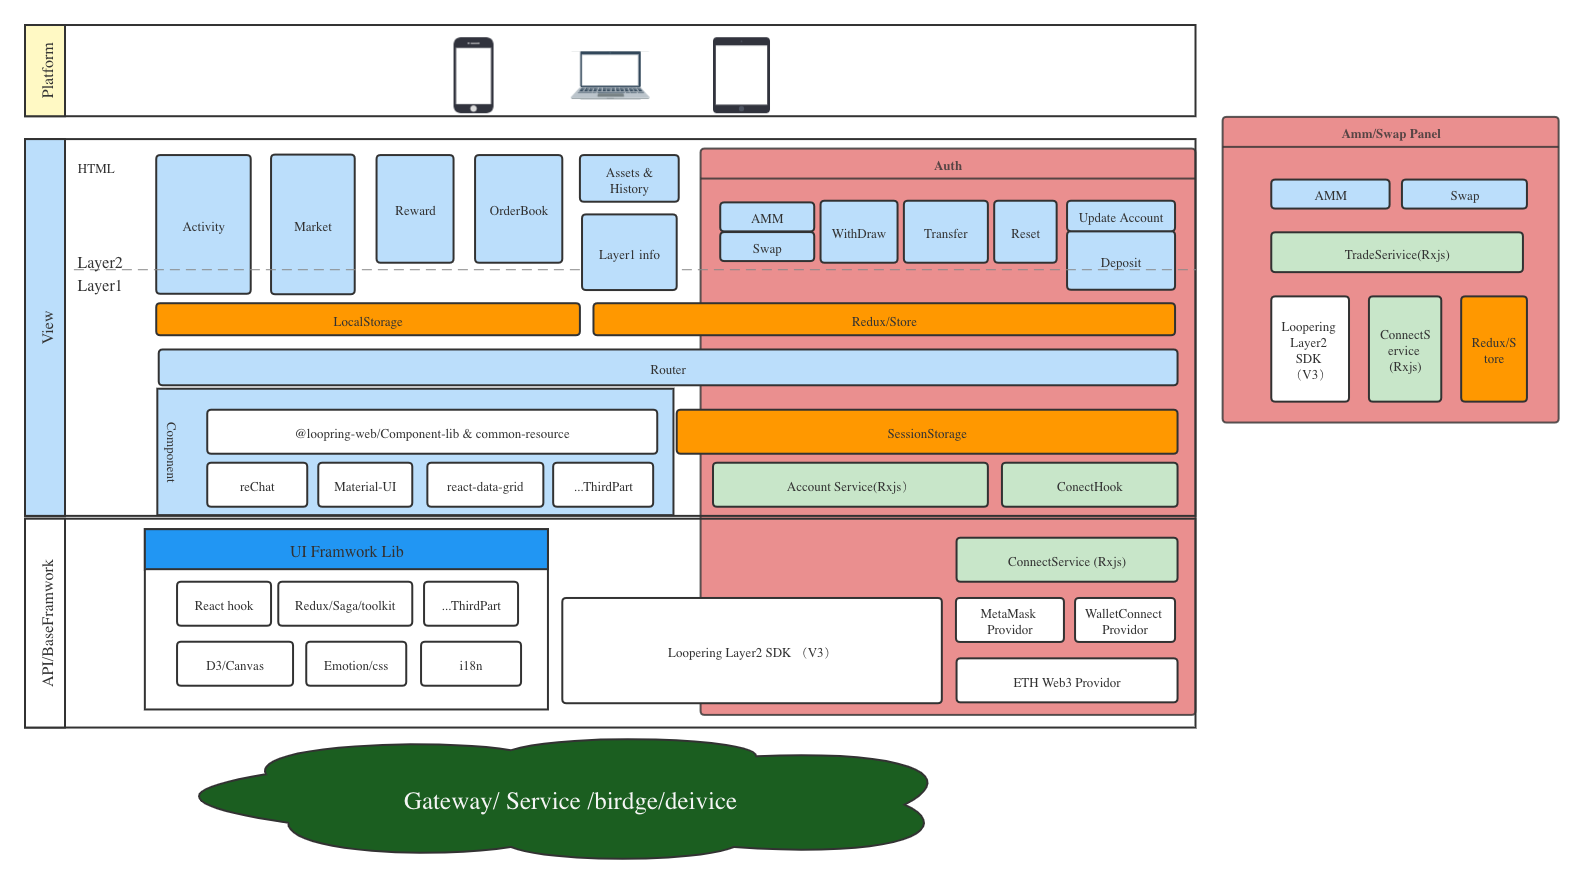
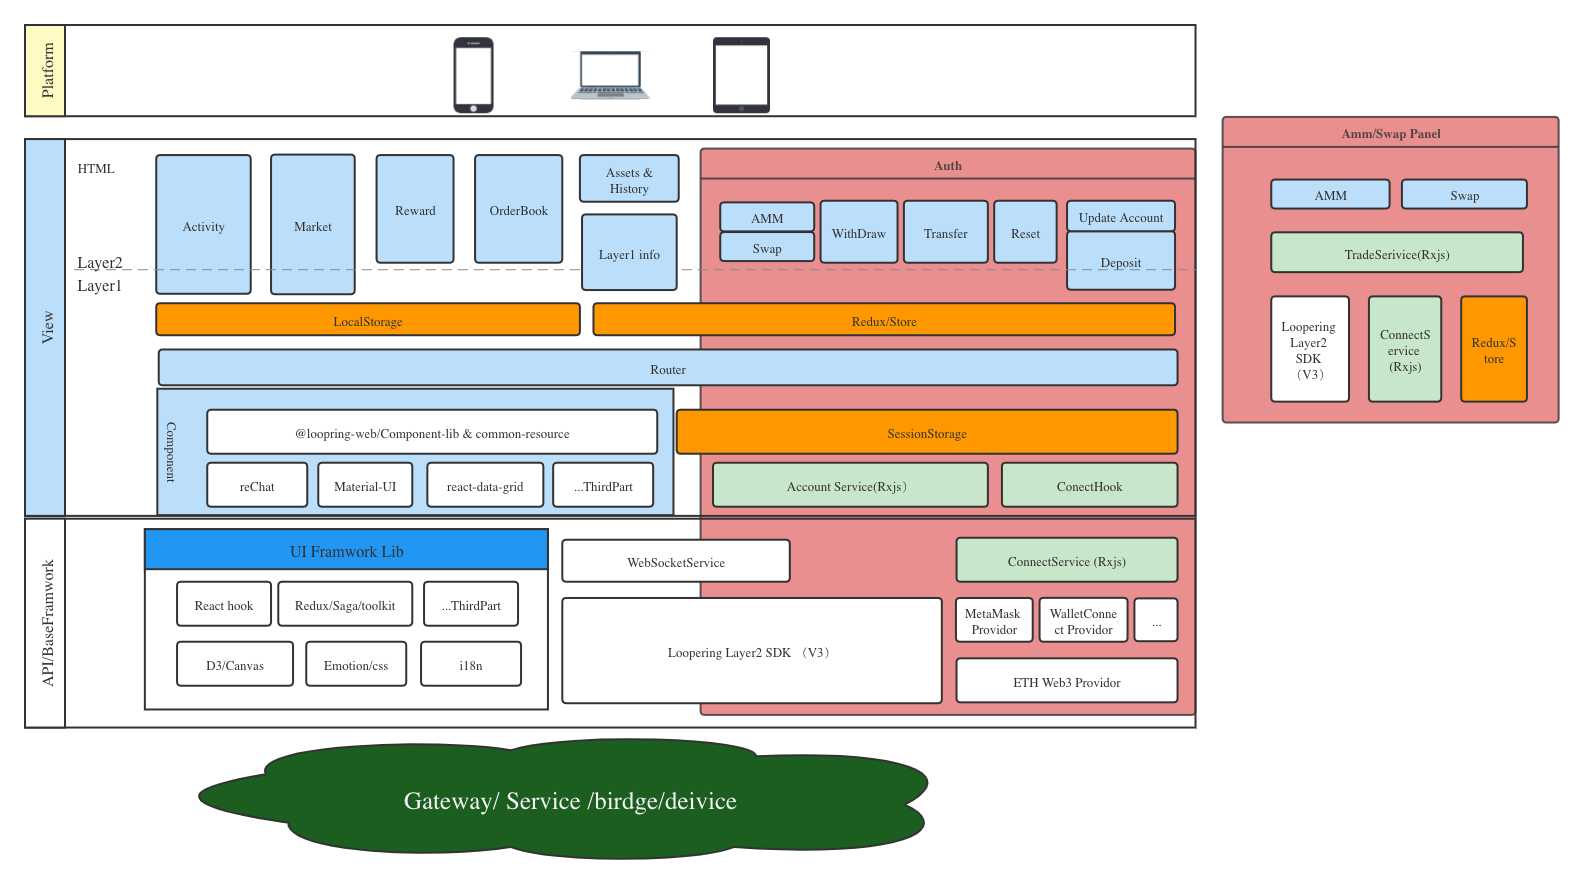
update code

Changed region(s): [[0.6191, 0.6719, 0.7429, 0.733], [0.3714, 0.6109, 0.5262, 0.6719]]

diff --git a/packages/webapp/src/pages/SwapPage/hook.ts b/packages/webapp/src/pages/SwapPage/hook.ts
@@ -33,9 +33,9 @@ import { deepClone } from 'utils/obj_tools';
 import { myError, myLog } from 'utils/log_tools';
 import { useTranslation } from 'react-i18next';
 import { usePairMatch } from 'hooks/common/usePairMatch';
-import { useWalletHook } from 'services/wallet/useWalletHook';
+import { useWalletLayer2Socket } from 'services/socket/';
 import { useSocket } from 'stores/socket';
-import { walletLayer2Service } from 'services/wallet/walletLayer2Service';
+import { walletLayer2Service } from 'services/socket/services/walletLayer2Service';
 import { getTimestampDaysLater } from 'utils/dt_tools';
 import { DAYS, REFRESH_RATE, TOAST_TIME } from 'defs/common_defs';
 
@@ -490,7 +490,7 @@ export const useSwapPage = <C extends { [ key: string ]: any }>() => {
 
     }, [tradeData, tradeCalcData, marketArray, ammMap, account.readyState])
 
-    useWalletHook({walletLayer2Callback})
+    useWalletLayer2Socket({walletLayer2Callback})
 
     // myLog('tradeData?.sell.belong:', tradeData?.sell.belong)
     // myLog('tradeData?.buy.belong:', tradeData?.buy.belong)

diff --git a/packages/webapp/src/pages/LiquidityPage/AmmPanel/hooks.ts b/packages/webapp/src/pages/LiquidityPage/AmmPanel/hooks.ts
@@ -41,9 +41,9 @@ import { LoopringAPI } from "api_wrapper";
 import { deepClone } from '../../../utils/obj_tools';
 import { myLog } from "utils/log_tools";
 import { useTranslation } from "react-i18next";
-import { useWalletHook } from '../../../services/wallet/useWalletHook';
+import { useWalletLayer2Socket } from '../../../services/socket/';
 import { useSocket } from '../../../stores/socket';
-import { walletLayer2Service } from '../../../services/wallet/walletLayer2Service';
+import { walletLayer2Service } from '../../../services/socket/services/walletLayer2Service';
 import * as _ from 'lodash'
 import { useToast } from "hooks/common/useToast";
 export const useAmmPanel = <C extends { [key: string]: any }>({
@@ -682,7 +682,7 @@ export const useAmmPanel = <C extends { [key: string]: any }>({
 
     },[ pair, snapShotData])
 
-    useWalletHook({walletLayer2Callback})
+    useWalletLayer2Socket({walletLayer2Callback})
     React.useEffect(()=>{
         walletLayer2Callback()
         // if(walletLayer2Status === SagaStatus.UNSET){

diff --git a/packages/webapp/src/pages/Layer2Page/MyLiquidityPanel/hook.ts b/packages/webapp/src/pages/Layer2Page/MyLiquidityPanel/hook.ts
@@ -17,7 +17,7 @@ import { useWalletLayer2 } from '../../../stores/walletLayer2';
 import { useUserRewards } from '../../../stores/userRewards';
 import { useAmmMap } from '../../../stores/Amm/AmmMap';
 import { SagaStatus } from '@loopring-web/common-resources';
-import { useWalletHook } from '../../../services/wallet/useWalletHook';
+import { useWalletLayer2Socket } from '../../../services/socket/';
 import { useSystem } from 'stores/system';
 
 export const useOverview = <R extends { [ key: string ]: any }, I extends { [ key: string ]: any }>(
@@ -180,7 +180,7 @@ export const useOverview = <R extends { [ key: string ]: any }, I extends { [ ke
             setMyPoolRow(_myPoolRow)         
         }
     },[ammMap])
-    useWalletHook({walletLayer2Callback})
+    useWalletLayer2Socket({walletLayer2Callback})
 
     React.useEffect(() => {
         if (userRewardsStatus === SagaStatus.UNSET) {

diff --git a/packages/webapp/src/pages/LiquidityPage/CoinPairPanel/hooks.ts b/packages/webapp/src/pages/LiquidityPage/CoinPairPanel/hooks.ts
@@ -17,7 +17,7 @@ import { makeMyAmmWithSnapshot } from '../../../hooks/help/makeUIAmmActivityMap'
 import { useUserRewards } from '../../../stores/userRewards';
 import { LoopringAPI } from 'api_wrapper';
 import { myLog } from '../../../utils/log_tools';
-import { useWalletHook } from '../../../services/wallet/useWalletHook';
+import { useWalletLayer2Socket } from '../../../services/socket/';
 import store from 'stores'
 import { volumeToCountAsBigNumber } from 'hooks/help'
 import { getValuePrecision, getThousandFormattedNumbers } from "@loopring-web/common-resources";
@@ -394,7 +394,7 @@ export const useCoinPair = <C extends { [ key: string ]: any }>(ammActivityMap: 
             setMyAmm(_myAmm);
         }
     },[])
-    useWalletHook({walletLayer2Callback})
+    useWalletLayer2Socket({walletLayer2Callback})
 
 
     React.useEffect(() => {

diff --git a/packages/webapp/src/pages/Layer2Page/AssetPanel/hook.ts b/packages/webapp/src/pages/Layer2Page/AssetPanel/hook.ts
@@ -10,7 +10,7 @@ import { AssetType, WsTopicType } from 'loopring-sdk'
 import { volumeToCount } from 'hooks/help'
 import { useAmmMap } from '../../../stores/Amm/AmmMap';
 import { useSocket } from '../../../stores/socket';
-import { useWalletHook } from '../../../services/wallet/useWalletHook';
+import { useWalletLayer2Socket } from '../../../services/socket/';
 import { useSystem } from 'stores/system'
 import { getValuePrecision } from '@loopring-web/common-resources'
 
@@ -107,7 +107,7 @@ export const useGetAssets = () => {
         }))
         setAssetsList(list)
     },[])
-    useWalletHook({walletLayer2Callback})
+    useWalletLayer2Socket({walletLayer2Callback})
 
     const { faitPrices } = store.getState().system
 

diff --git a/packages/webapp/src/stores/system/saga.ts b/packages/webapp/src/stores/system/saga.ts
@@ -10,7 +10,7 @@ import { CustomError, ErrorMap } from '@loopring-web/common-resources';
 import { getAmmActivityMap } from '../Amm/AmmActivityMap';
 import { updateWalletLayer1 } from '../walletLayer1';
 import { delay } from 'rxjs/operators';
-import { LoopringSocket } from '../../services/socketUtil';
+import { LoopringSocket } from '../../services/socket/socketUtil';
 import { statusUnset as accountStatusUnset } from '../account';
 import { ChainId } from 'loopring-sdk';
 

diff --git a/packages/webapp/src/pages/QuotePage/hook.ts b/packages/webapp/src/pages/QuotePage/hook.ts
@@ -6,7 +6,7 @@ import { deepClone } from '../../utils/obj_tools';
 import { useSocket } from '../../stores/socket';
 import { TradingInterval, WsTopicType } from 'loopring-sdk';
 import { LoopringAPI } from 'api_wrapper'
-import { tickerService } from '../../services/tickerService';
+import { tickerService } from '../../services/socket/services/tickerService';
 import { myError, myLog } from "utils/log_tools";
 
 const amtCol = 5

diff --git a/packages/webapp/src/types.d.ts b/packages/webapp/src/types.d.ts
@@ -1,4 +1,4 @@
-import { LoopringSocket } from './services/socketUtil';
+import { LoopringSocket } from './services/socket/socketUtil';
 
 declare global {
     interface Window {

diff --git a/README.md b/README.md
@@ -28,4 +28,4 @@ npm run dev
 
 ##Framwork Design
 
-![](../../Downloads/Loopring framwork.png)
+![](docs/Loopring framwork.png)
